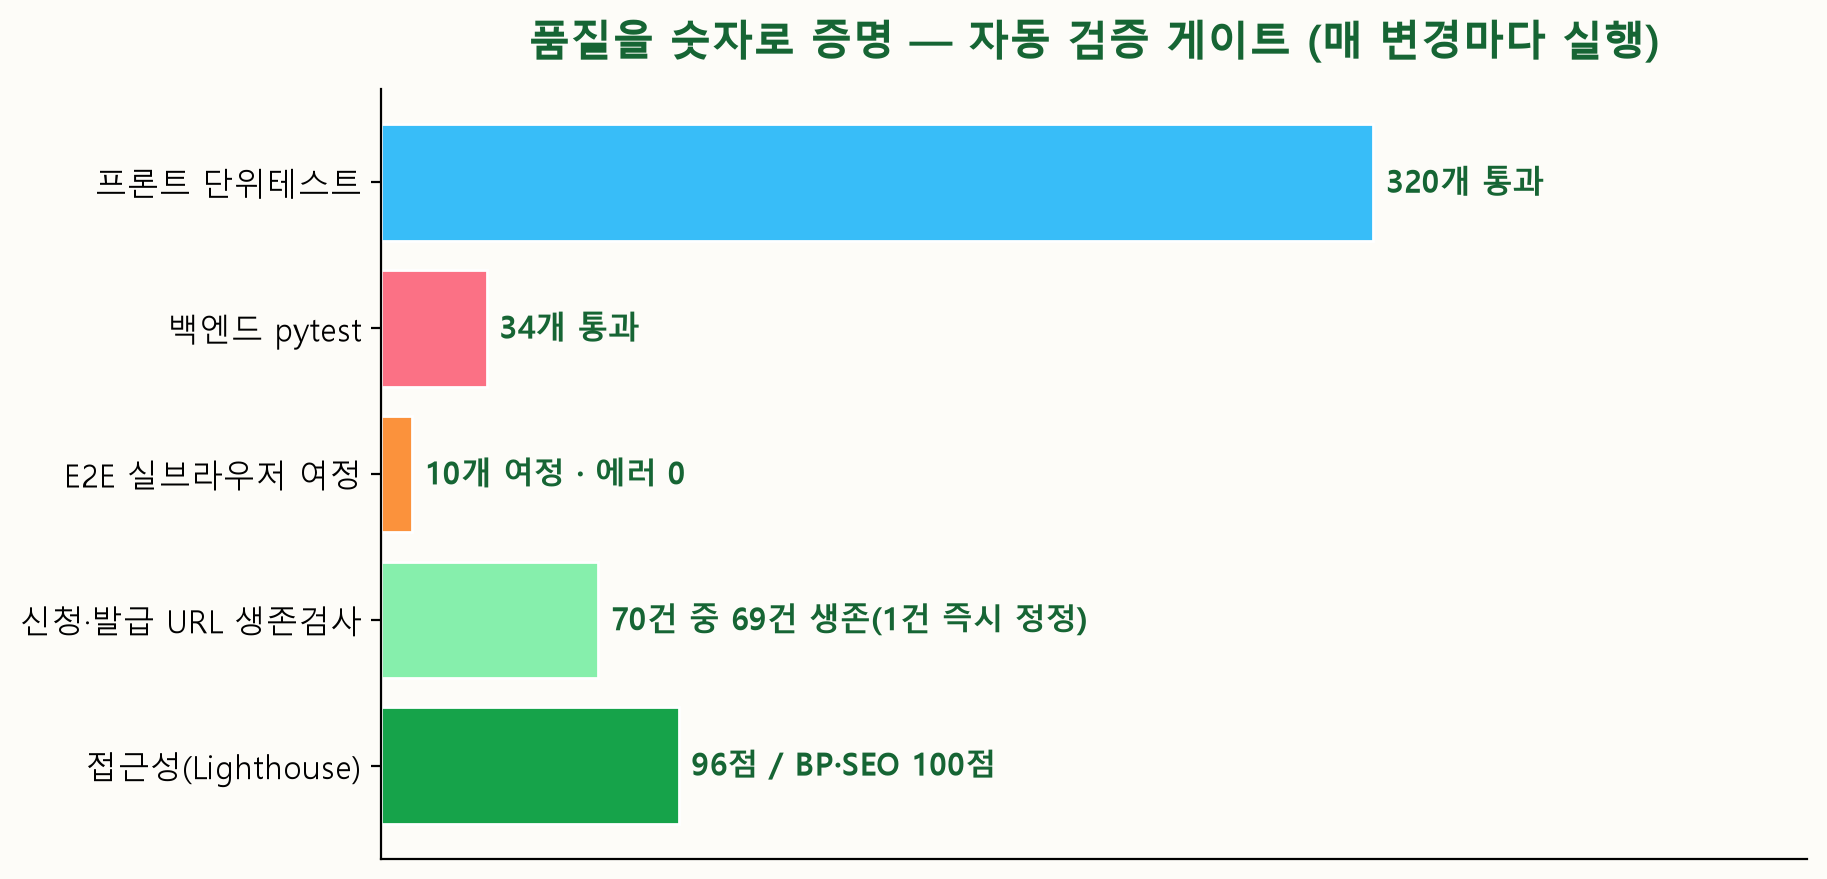
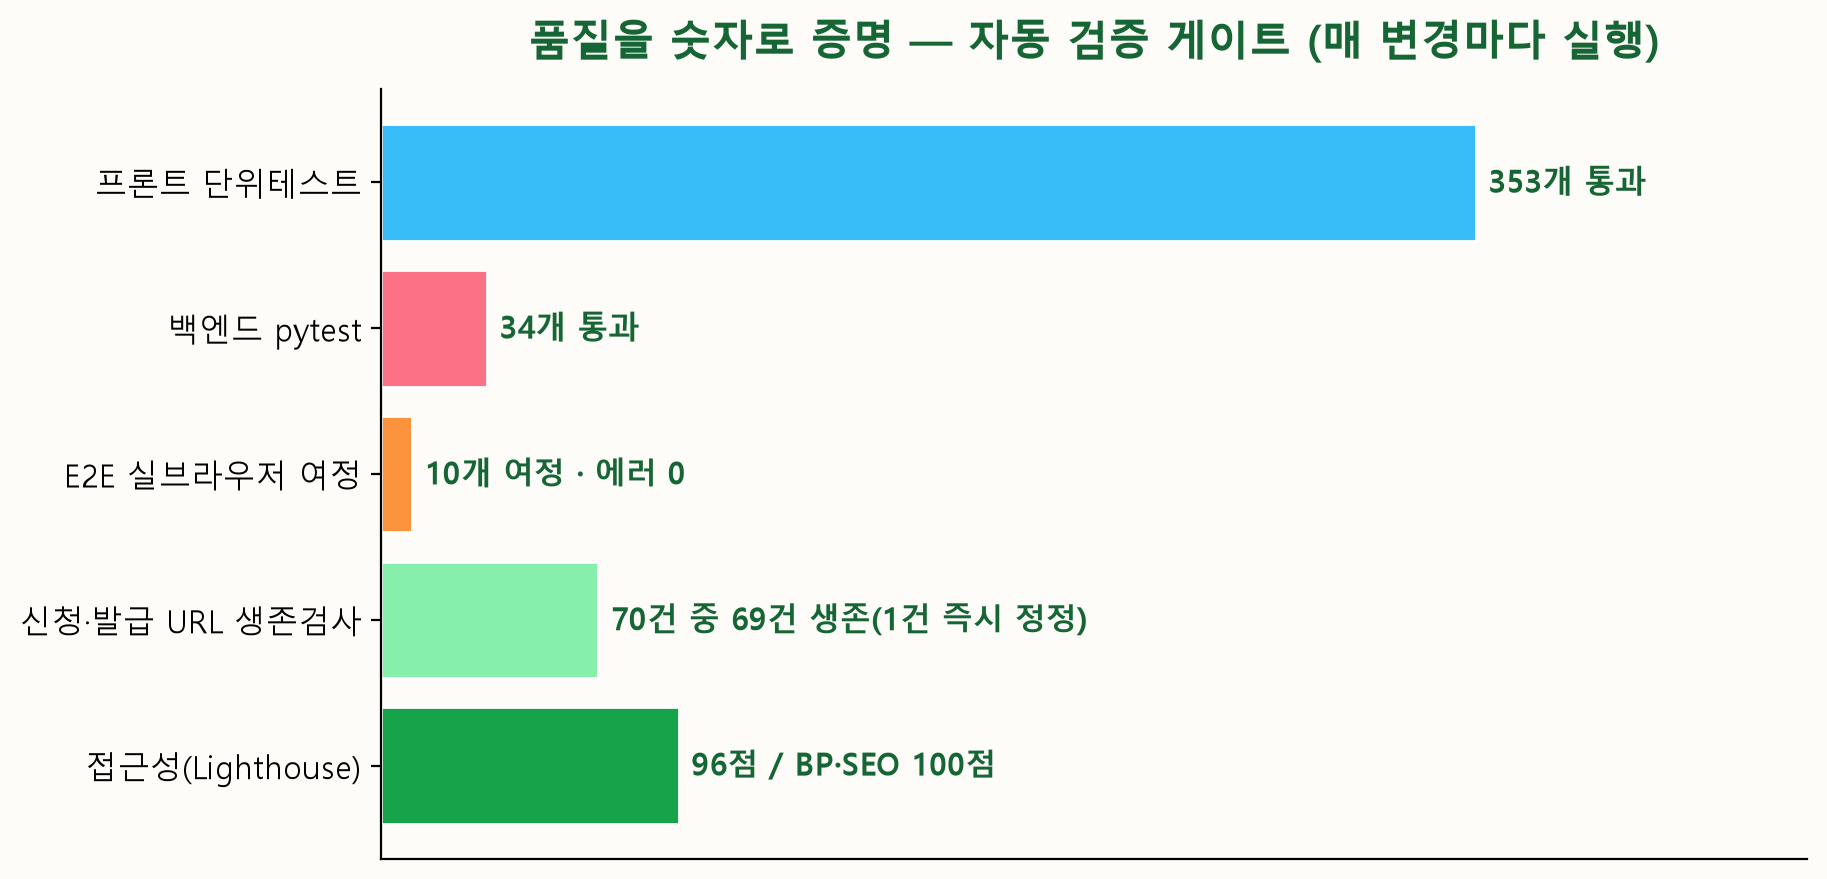
docs: 제출 자료 최신화 — README/CLAUDE 테스트 353 + 8배치 신기능 6종 소개(외국인 다국어UI·수급조합·인라인쉬운말·방문키트·가족링크·지원형태필터), 품질차트 353 재생성, 자료실 신기능 스크린샷 2종 추가

Changed region(s): [[0.7488, 0.1229, 0.9048, 0.2765]]

diff --git a/기획서자료실/03-통계차트/make_charts.py b/기획서자료실/03-통계차트/make_charts.py
@@ -76,8 +76,8 @@ save(fig, 'chart3-페르소나발견가치.png')
 fig, ax = plt.subplots(figsize=(9.2, 5.0))
 fig.patch.set_facecolor(BG); ax.set_facecolor(BG)
 items = ['프론트 단위테스트', '백엔드 pytest', 'E2E 실브라우저 여정', '신청·발급 URL 생존검사', '접근성(Lighthouse)']
-vals4 = [320, 34, 10, 70, 96]
-labels4 = ['320개 통과', '34개 통과', '10개 여정 · 에러 0', '70건 중 69건 생존(1건 즉시 정정)', '96점 / BP·SEO 100점']
+vals4 = [353, 34, 10, 70, 96]
+labels4 = ['353개 통과', '34개 통과', '10개 여정 · 에러 0', '70건 중 69건 생존(1건 즉시 정정)', '96점 / BP·SEO 100점']
 bars = ax.barh(items[::-1], vals4[::-1], color=[SKY, ROSE, PEACH, LIGHT, GREEN][::-1], edgecolor='white')
 for b, lab in zip(bars, labels4[::-1]):
     ax.text(b.get_width() + 4, b.get_y() + b.get_height()/2, lab, va='center', fontsize=11, fontweight='bold', color=DARK)

diff --git a/README.md b/README.md
@@ -5,7 +5,7 @@
 
 ### 🌐 라이브 데모 — **https://biocode67.github.io/modoo-bom/**
 
-![tests](https://img.shields.io/badge/frontend_tests-315_passed-brightgreen) ![pytest](https://img.shields.io/badge/backend_pytest-34_passed-brightgreen) ![e2e](https://img.shields.io/badge/E2E_실브라우저-10여정·에러0-brightgreen) ![data](https://img.shields.io/badge/실데이터-5,250여건_검증-blue) ![lighthouse](https://img.shields.io/badge/Lighthouse-A11y96·BP100·SEO100-blue)
+![tests](https://img.shields.io/badge/frontend_tests-353_passed-brightgreen) ![pytest](https://img.shields.io/badge/backend_pytest-34_passed-brightgreen) ![e2e](https://img.shields.io/badge/E2E_실브라우저-10여정·에러0-brightgreen) ![data](https://img.shields.io/badge/실데이터-5,250여건_검증-blue) ![lighthouse](https://img.shields.io/badge/Lighthouse-A11y96·BP100·SEO100-blue)
 
 회원가입·백엔드 없이 바로 동작합니다. 프론트엔드는 **전국 5,250여 건 복지**(보건복지부 검증 큐레이션 124 + 정부지원사업·청년주택·서민금융 45
 + **민간재단 큐레이션 21** + 한국사회보장정보원 공공데이터 5,061 — 현대차 정몽구 스칼러십·심장재단 수술비 등
@@ -18,6 +18,12 @@
 - 🌍 **온디바이스 다국어 AI 의미검색 (헤드라인)** — 브라우저에서 직접 도는 신경망 임베딩(multilingual-e5-small)으로 5,220여 건을 *의미*로 매칭. **한국어·English·Tiếng Việt·中文·日本語 교차검색**(외국인·다문화 복지 사각지대). **AI 대화형 답변 + 음성**, 입력 언어 자동감지 — **서버 전송 0**(전부 기기 내).
 - 🤖 **행동형 챗 에이전트** — 프로필을 알고 답하고("내가 뭐 받을 수 있어?" → 자격+이유), **대화 맥락 기억**("그거/다 담아줘" 한마디로 관심목록 저장), 열면 **급한 마감·서류부터 브리핑**. 전부 규칙엔진(서버·LLM 불필요, 환각 없음)
 - 🌱 **대화형 온보딩 "새싹이와 대화"** — 폼 대신 마스코트가 한 번에 하나씩 묻고 **탭으로만** 답하는 프로필 입력. 어르신(65+) 선택 시 **큰글씨 원탭 제안**, 질문 **음성 읽어주기**(TTS), 새로고침해도 이어서(임시저장)
+- 🌐 **외국인 딥퍼널 다국어 UI** — 외국어로 검색하면 정책 상세·신청 키트의 UI 골격이 자국어로(en·vi·zh·ja·th·ru·ar) + 통역 배너(☎1577-1366 다누리). 정책 본문은 한국어 유지(기계번역·환각 없음)
+- 🧩 **수급 조합 도우미** — 받을 수 있는 복지끼리의 관계 안내: "하나만"(기초연금↔장애인연금)·"감액 주의"(기초연금→생계급여)·"병급 가능"(아동수당+부모급여), 공식 출처 실측
+- 💬 **본문 인라인 쉬운말** — 상세의 어려운 행정용어(소득인정액·차상위 등 26개)를 점선밑줄로 표시, 탭하면 그 자리에서 쉬운 설명 팝오버
+- 📄 **주민센터 방문 키트** — 정책 1건을 큰 글씨 A4로 인쇄(창구 멘트·담당 전화·서류 체크리스트) — 디지털 소외층의 실제 신청 경로 지원
+- 👨👩👧 **가족 도움 링크** — 어르신·장애인의 복지 신청을 가족이 대신. 프로필(이름 제외)+담은 정책을 온디바이스 링크로 공유→받은 폰에서 재계산(서버 전송 없음)
+- 🎁 **지원형태 필터** — 현금/바우처·카드/요금감면/서비스·현물/융자·대출로 분류해 탐색 필터·카드 배지(지자체 요약 정책까지 신호로 분류)
 - 💝 **민간재단 큐레이션** — 정부 데이터 어디에도 없는 기업·재단의 장학·의료비·위기지원 **21건**(현대차 정몽구·관정·삼성꿈장학·아산 SOS·초록우산 등)을 실측 검증해 수록. 분석 결과 전용 섹션·탐색 필터·긴급진단 연계(정부 제도 우선 랭킹)
 - 🔎 **확인/조회** — 1분 프로필 위저드 + 자격 판정(2026 정밀 선정기준), 5,250여 종 정책 탐색·검색, **대화형 AI 상담 챗봇**(연령·상황·소득으로 좁혀 추천)
 - 🧮 **선택/관리** — 관심목록·신청 상태 관리·혜택 계산기·정책 비교, **복지 수혜 점수**(미수령 사각지대 +지금 챙길 TOP3)
@@ -27,7 +33,7 @@
 - ♿ **접근성** — **음성 입력·음성 안내(TTS)**, 큰글씨, 인쇄/PDF("내 복지 안내서"), reduced-motion
 - 🎨 **3D 카툰 UI / PWA** — 새싹 마스코트(React Three Fiber, 지연 로딩) + framer-motion, 반응형, **설치형·오프라인 PWA**
 
-**품질**: ESLint(0) · 단위 테스트(vitest 315 + pytest 34) · 실브라우저 E2E 10여정 · TypeScript · ErrorBoundary · 주요 복지 금액 2026년 공식 출처 검증
+**품질**: ESLint(0) · 단위 테스트(vitest 353 + pytest 34) · 실브라우저 E2E 10여정 · TypeScript · ErrorBoundary · 주요 복지 금액 2026년 공식 출처 검증
 **📁 팀원용 기획서 자료실**: [`기획서자료실/`](기획서자료실/) — 인포그래픽·다이어그램 8종·통계차트 6종·스크린샷 14장·경쟁비교표·**PPT 55페이지 구성안**까지 전부 (아래 [프로젝트 상세 문서](#-프로젝트-상세-기획서용-전체-문서)와 함께 사용).
 **기획서 자료**: `docs/기획서자료/`에 아키텍처·AI흐름·RPA·데이터 다이어그램 + 차트 + 한 장 요약 포스터 제공.
 

diff --git a/CLAUDE.md b/CLAUDE.md
@@ -112,7 +112,7 @@ src/
   긴급복지 진단, 복지 점수·TOP3, **대표문의 전화 tel: 연결**, **포트폴리오 차트**(SVG), 온보딩,
   **로그인·동기화**(카카오·구글, Supabase 무료 티어, 선택 — 미설정 시 인증 UI 숨김 + supabase-js 트리셰이킹 제외, 설정은 `supabase/SETUP.md`),
   **PWA**(설치형·오프라인·autoUpdate·beforeinstallprompt), 큰글씨·고대비·ESC·ARIA·focus-visible 접근성, ErrorBoundary.
-- **품질 게이트(모두 통과)**: `npm run lint`(eslint9 flat, react-hooks, 0건) · `npm test`(vitest **315**) ·
+- **품질 게이트(모두 통과)**: `npm run lint`(eslint9 flat, react-hooks, 0건) · `npm test`(vitest **353**) ·
   `tsc --noEmit` · `npm run build` · E2E 스모크(`frontend/e2e/smoke.py`, 실브라우저 10여정 + e2e:chat/save/fin/ext) / 백엔드 `pytest`(34). 변경마다 브라우저 회귀 검증.
 - **데이터 정확성(2026 검증)**: 기초연금·장애인연금·아동수당(9세 확대)·생계급여(32%)·한부모(23만/65%)·
   청년도약(33,000)·교육급여·보육료·긴급복지·노인일자리·국가장학금을 보건복지부 등 공식 출처로 검증·정정.
